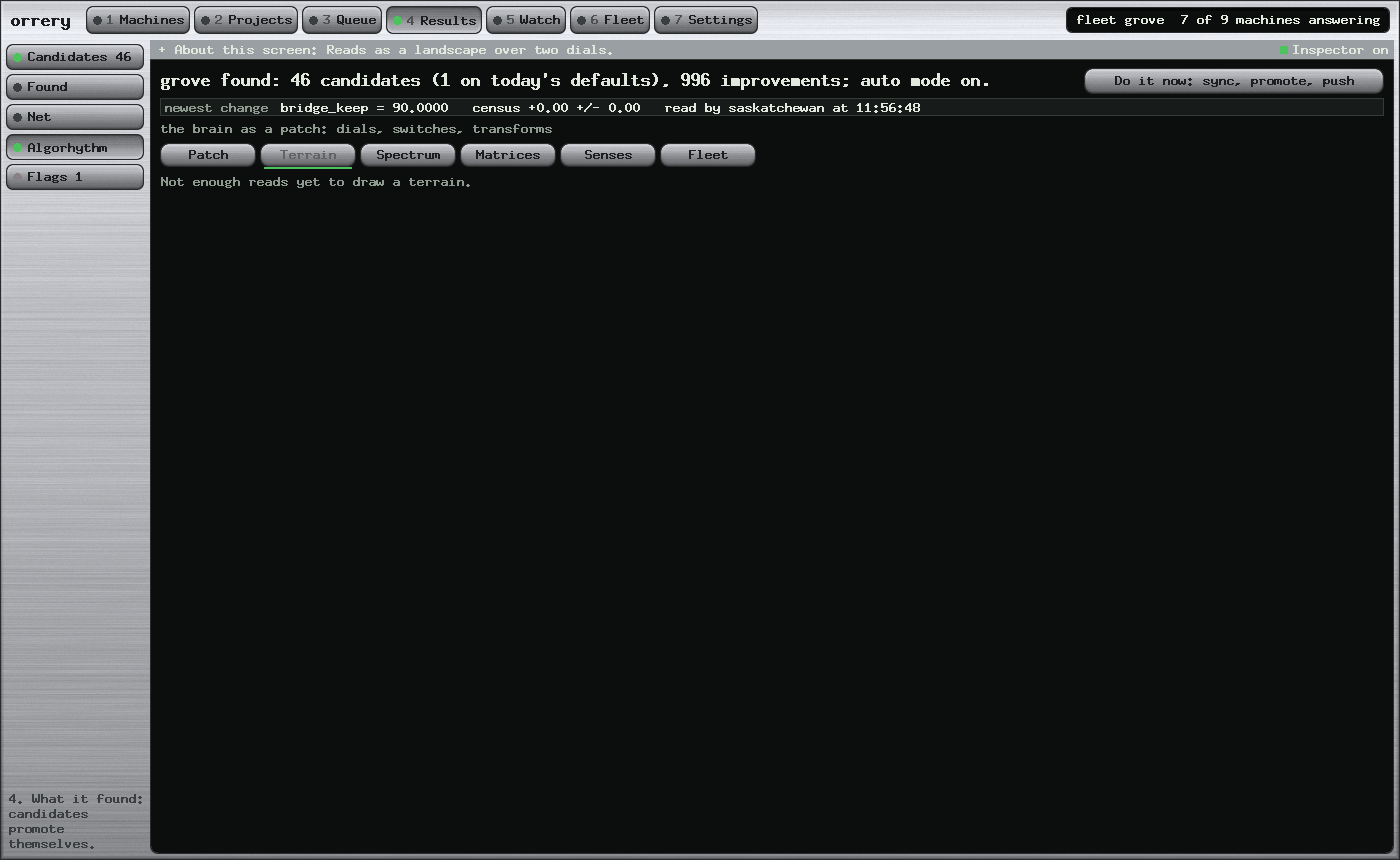
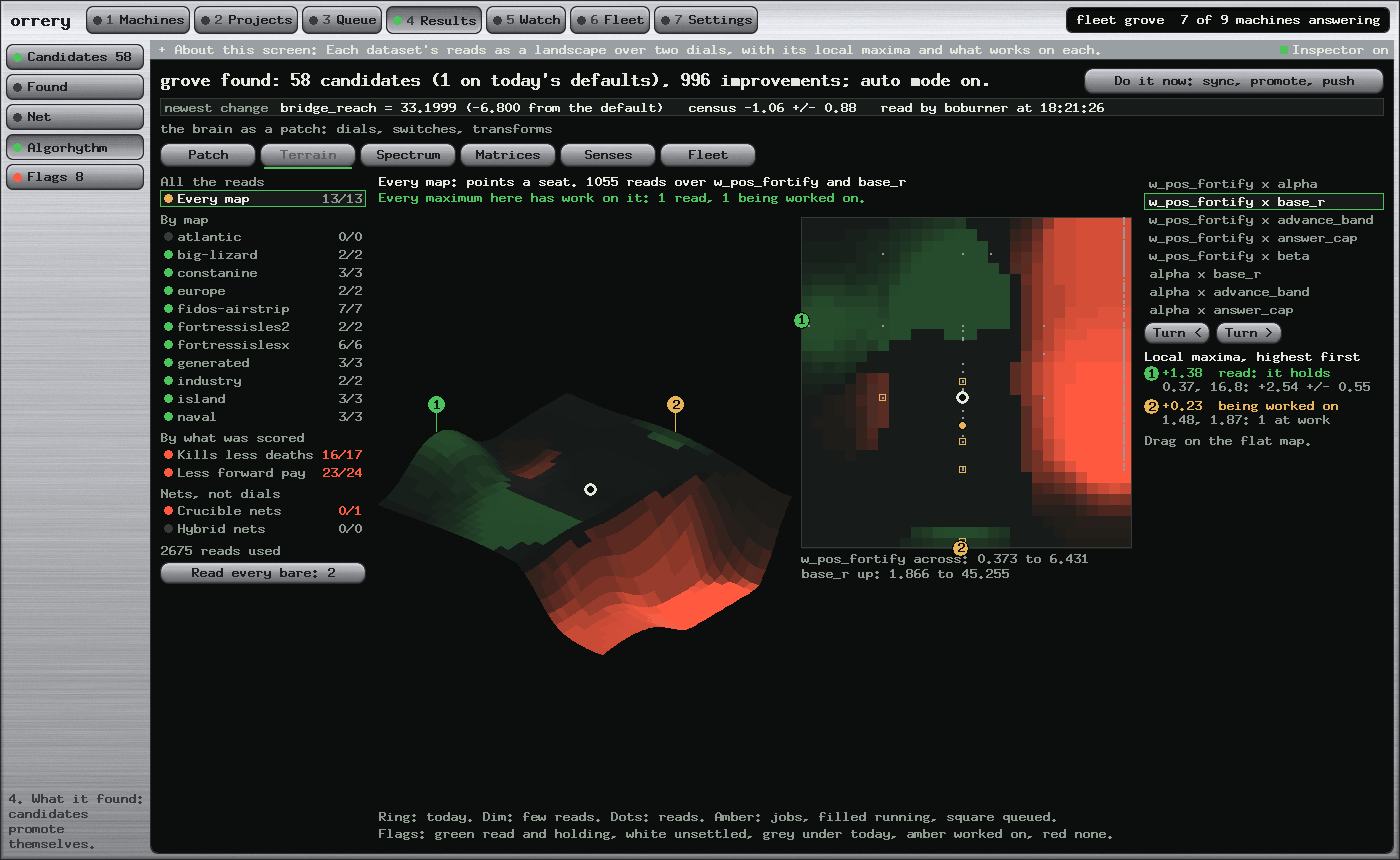
A Terrain for Each Dataset, from orrery: maxima, what works on them, and regions to send trials to

diff --git a/reports/2026-11-01-terrain.html b/reports/2026-11-01-terrain.html
@@ -1,0 +1,145 @@
+<meta charset="utf-8">
+<title>A Terrain for Each Dataset</title>
+<meta name="claude:viewport-fit-sides" content="cover">
+<link rel="preconnect" href="https://fonts.googleapis.com">
+<link rel="preconnect" href="https://fonts.gstatic.com" crossorigin>
+<link rel="stylesheet" href="https://fonts.googleapis.com/css2?family=IBM+Plex+Mono:wght@400;500;600&family=IBM+Plex+Sans+Condensed:wght@500;600;700&family=Source+Serif+4:opsz,wght@8..60,400;8..60,600&display=swap">
+<style>
+/* Layout: a lab report on orrery's paper -- a sticky bar of section
+   numerals, a masthead, then numbered sections at a reading measure, with
+   code and diagrams set dark like a terminal. Palette: orrery's draw.rs
+   LIGHT and DARK, as the user guide. */
+:root {
+  --base: #fce2ab; --panel: #f7d79a; --tile: #fff2d4; --ink: #121212;
+  --dim: #6b5836; --line: #c4a870; --accent: #87704f; --up: #4a7c4e;
+  --term-bg: #1c1a16; --term-ink: #f0e3c4; --term-dim: #8a7d63;
+  --rule: color-mix(in srgb, var(--line) 70%, transparent);
+  --serif: "Source Serif 4", Georgia, "Times New Roman", serif;
+  --cond: "IBM Plex Sans Condensed", "Helvetica Neue", Arial, sans-serif;
+  --mono: "IBM Plex Mono", ui-monospace, Menlo, Consolas, monospace;
+  --measure: 68ch;
+  --step--1: clamp(.78rem, .76rem + .1vw, .84rem);
+  --step-0: clamp(1rem, .97rem + .16vw, 1.08rem);
+  --step-1: clamp(1.18rem, 1.12rem + .3vw, 1.36rem);
+  --step-2: clamp(1.45rem, 1.32rem + .6vw, 1.9rem);
+  --step-3: clamp(1.9rem, 1.6rem + 1.3vw, 2.8rem);
+}
+@media (prefers-color-scheme: dark) {
+  :root:not([data-theme="light"]) {
+    --base: #181818; --panel: #121212; --tile: #1f1f1f; --ink: #d0daed;
+    --dim: #a08a66; --line: #3a3a3a; --accent: #fccf8a; --up: #8fbf7a;
+    --term-bg: #0e0e0e; --term-ink: #d0daed; --term-dim: #7c705c;
+    --rule: color-mix(in srgb, var(--line) 100%, transparent);
+    color-scheme: dark;
+  }
+}
+:root[data-theme="dark"] {
+  --base: #181818; --panel: #121212; --tile: #1f1f1f; --ink: #d0daed;
+  --dim: #a08a66; --line: #3a3a3a; --accent: #fccf8a; --up: #8fbf7a;
+  --term-bg: #0e0e0e; --term-ink: #d0daed; --term-dim: #7c705c;
+  --rule: color-mix(in srgb, var(--line) 100%, transparent);
+  color-scheme: dark;
+}
+* { box-sizing: border-box; }
+body {
+  background: var(--base); color: var(--ink);
+  font-family: var(--serif); font-size: var(--step-0); line-height: 1.62;
+  -webkit-font-smoothing: antialiased;
+  padding-left: max(16px, env(safe-area-inset-left, 0px));
+  padding-right: max(16px, env(safe-area-inset-right, 0px));
+}
+body::before { content: ""; position: fixed; inset: 0 0 auto; height: env(safe-area-inset-top, 0px); z-index: 30; background: var(--base); }
+.wrap { max-width: 980px; margin: 0 auto; }
+
+.bar {
+  position: sticky; top: env(safe-area-inset-top, 0px); z-index: 20;
+  background: color-mix(in srgb, var(--base) 94%, transparent);
+  backdrop-filter: blur(8px);
+  border-bottom: 1px solid var(--rule);
+  margin-inline: calc(-1 * max(16px, env(safe-area-inset-left, 0px)));
+  padding-inline: max(16px, env(safe-area-inset-left, 0px));
+}
+.bar-in {
+  max-width: 980px; margin: 0 auto; padding-block: 9px;
+  display: flex; flex-wrap: wrap; align-items: baseline; gap: 4px 14px;
+  font-family: var(--cond); font-size: var(--step--1);
+}
+.bar-in strong { letter-spacing: .1em; text-transform: uppercase; color: var(--accent); margin-right: auto; }
+.bar-in a { color: var(--dim); text-decoration: none; border-bottom: 1px solid transparent; }
+.bar-in a:hover, .bar-in a:focus-visible { color: var(--ink); border-bottom-color: var(--accent); }
+
+header.mast { padding-block: clamp(36px, 6vw, 72px) clamp(24px, 4vw, 40px); }
+.eyebrow { font-family: var(--mono); font-size: var(--step--1); letter-spacing: .12em; text-transform: uppercase; color: var(--accent); margin: 0 0 16px; }
+h1 { font-family: var(--cond); font-weight: 700; font-size: var(--step-3); line-height: 1.05; letter-spacing: -.015em; text-wrap: balance; margin: 0 0 18px; max-width: 22ch; }
+.front p, .front li { font-size: var(--step--1); color: var(--dim); }
+.front p.note { font-family: var(--mono); letter-spacing: .04em; color: var(--accent); }
+.front ul { margin: 0; }
+
+nav.toc { border-top: 1px solid var(--rule); padding-block: 22px 30px; }
+nav.toc h2 { font-size: var(--step--1); letter-spacing: .12em; text-transform: uppercase; color: var(--accent); font-family: var(--mono); font-weight: 500; margin: 0 0 10px; }
+nav.toc ol { list-style: none; padding: 0; margin: 0; columns: 2 18rem; column-gap: 32px; }
+nav.toc li { break-inside: avoid; padding: 3px 0; font-family: var(--cond); }
+nav.toc a { color: var(--ink); text-decoration: none; }
+nav.toc a:hover, nav.toc a:focus-visible { text-decoration: underline; text-decoration-color: var(--accent); }
+
+section { padding-block: clamp(28px, 4vw, 48px); border-top: 1px solid var(--rule); scroll-margin-top: 48px; }
+h2 { font-family: var(--cond); font-weight: 700; font-size: var(--step-2); line-height: 1.12; text-wrap: balance; margin: 0 0 18px; }
+h3 { font-family: var(--cond); font-weight: 600; font-size: var(--step-1); line-height: 1.25; text-wrap: balance; margin: 30px 0 10px; scroll-margin-top: 48px; }
+p, ul, ol, blockquote { max-width: var(--measure); }
+p { margin: 0 0 1em; }
+ul, ol { margin: 0 0 1em; padding-left: 1.3em; }
+li { margin-bottom: .35em; }
+li > ul, li > ol { margin: .35em 0 .2em; }
+li::marker { color: var(--accent); }
+p.note { font-size: var(--step--1); color: var(--dim); }
+strong { font-weight: 600; }
+a { color: var(--ink); text-underline-offset: 3px; text-decoration-color: var(--accent); }
+code { font-family: var(--mono); font-size: .86em; }
+p code, li code, td code, th code { color: var(--accent); word-break: break-word; }
+blockquote { margin: 0 0 1.2em; padding: 12px 18px; border-left: 3px solid var(--accent); background: var(--tile); font-family: var(--mono); font-size: var(--step--1); line-height: 1.6; }
+blockquote p { margin: 0; }
+
+.code { position: relative; margin: 0 0 1.3em; background: var(--term-bg); border-radius: 4px; overflow-x: auto; max-width: 100%; }
+.code pre { margin: 0; padding: 16px 18px; color: var(--term-ink); font-family: var(--mono); font-size: .8rem; line-height: 1.55; tab-size: 4; }
+.code code { font-size: inherit; color: inherit; }
+.code .lang { position: absolute; top: 6px; right: 10px; font-family: var(--mono); font-size: .68rem; letter-spacing: .1em; text-transform: uppercase; color: var(--term-dim); }
+.code.diagram { background: var(--tile); border: 1px solid var(--rule); }
+.code.diagram pre { color: var(--ink); }
+
+.table { overflow-x: auto; max-width: 100%; margin: 0 0 1.4em; }
+table { border-collapse: collapse; font-size: var(--step--1); line-height: 1.5; min-width: 30rem; }
+th { font-family: var(--cond); font-weight: 600; text-align: left; padding: 8px 14px 8px 0; border-bottom: 1px solid var(--line); vertical-align: bottom; }
+td { padding: 8px 14px 8px 0; border-bottom: 1px solid var(--rule); vertical-align: top; font-variant-numeric: tabular-nums; }
+tr:last-child td { border-bottom: none; }
+td:first-child { font-weight: 600; font-family: var(--cond); }
+
+figure { margin: 0 0 1.4em; }
+figure img { display: block; max-width: 100%; height: auto; border: 1px solid var(--line); }
+figcaption { margin-top: 8px; font-size: var(--step--1); color: var(--dim); max-width: var(--measure); }
+
+footer { border-top: 1px solid var(--rule); padding-block: 24px 48px; font-size: var(--step--1); color: var(--dim); }
+:focus-visible { outline: 2px solid var(--accent); outline-offset: 2px; }
+</style>
+
+<div class="bar"><div class="bar-in"><strong><a href="index.html">orrery</a> · lab report</strong><a href="#abstract">Abstract</a><a href="#si">I</a><a href="#sii">II</a><a href="#siii">III</a><a href="#siv">IV</a><a href="#sv">V</a><a href="#svi">VI</a></div></div>
+<div class="wrap">
+  <header class="mast">
+    <p class="eyebrow">orrery · the brain · maxima and what works on them</p>
+    <h1>A Terrain for Each Dataset</h1>
+    <div class="front"><p class="note">Paul, 1 November: "i see there are areas of local maxima in the terrain map. Is there a way to can perform this visualization to each dataset we can. Selecting regions of operation with the terrain map can be visually confirmed that data is working on all maximas."</p></div>
+  </header>
+  <nav class="toc" aria-label="Contents"><h2>Contents</h2><ol><li><a href="#abstract">Abstract</a></li><li><a href="#si">I. What was wrong with the old one</a></li><li><a href="#sii">II. The three words</a></li><li><a href="#siii">III. What it shows</a></li><li><a href="#siv">IV. Selecting a region</a></li><li><a href="#sv">V. Threats and what is open</a></li><li><a href="#svi">VI. Reproducing this</a></li></ol></nav>
+  <main>
+  <section id="abstract"><h2>Abstract</h2><p>Yes, and building it found that the terrain Paul was looking at stood on 109 reads of the 2,675 it should have used. It now draws sixteen datasets: every map, each of eleven maps, kills less deaths, the score less what going forward pays, and both kinds of Crucible net. Each maximum says whether work stands on it: <strong>read</strong>, <strong>being worked on</strong>, or <strong>nothing on it</strong>. A region drawn on a flat map lights up on the surface and can be sent trials. At 18:22, of 88 maxima, 77 had been read, 8 were being worked on and 3 had nothing on them. <strong>The picture that matters most is that the score's highest hill stands in the valley of kills less deaths, and disappears when going forward is taken out.</strong> No game value changed, and no region has been asked for yet.</p><p><strong>Index Terms:</strong> response surfaces, search coverage, kernel smoothing, interactive selection.</p></section><section id="si"><h2>I. What was wrong with the old one</h2><p>The terrain read <code>fleet.tsv</code>, whose rows mostly carry no commit or an old one, and a ledger that stopped on 28 October. So 3,651 rows looked like some other game, and it drew from 76 to 109 reads. It also set its heights by the gains promotions claimed, and centred on main, where the fleet stands on the line.</p><div class="table"><table><thead><tr><th></th><th>Before</th><th>Now</th></tr></thead><tbody><tr><td>Reads</td><td>109</td><td><strong>2,675</strong>, from every census's own directory</td></tr><tr><td>Today's defaults</td><td>main, <code>w_pos_fortify</code> 6</td><td>the line, 1.5</td></tr><tr><td>A read's height</td><td>its gain less the gains promotions claimed since</td><td>its gain plus how far its day's defaults stood from today's, by a small fit of the dials that have moved</td></tr><tr><td>Counted on a pair</td><td>every read</td><td><strong>only reads that moved one of the two dials.</strong> A trial of a third dial says nothing of these two</td></tr><tr><td>A maximum</td><td>any rise, including the rim of a pit</td><td>falling away on both sides of some line, off the map counting, and not in the lower half of the height</td></tr><tr><td>A map's read</td><td>any</td><td>8 seeds on that map or more. One read of 2 or 3 seeds, +15.50 +/- 0.25 on europe, drew a mountain</td></tr></tbody></table></div><p>Left out, and said on the page: 2,413 reads of other games, 1,225 of one map, 531 of switches, 157 of whole brains, 406 unfinished or without a reading.</p></section><section id="sii"><h2>II. The three words</h2><p>A maximum's reads are those within one kernel of it, about a third to half a doubling.</p><div class="table"><table><thead><tr><th>Word</th><th>Means</th></tr></thead><tbody><tr><td><strong>read</strong></td><td>110 seeds or more stand there. Their mean says if it <strong>holds</strong> (past two errors over today), <strong>falls</strong> (past two under), or is not settled</td></tr><tr><td><strong>being worked on</strong></td><td>Fewer, and a job queued or running there</td></tr><tr><td><strong>nothing on it</strong></td><td>Neither</td></tr></tbody></table></div><p><strong>"Read" means seeds stood there, not that it won.</strong> Of the 77 read, 17 hold, 2 fall and 58 are not settled.</p><figure style="max-width:1100px"><img loading="lazy" src="terrain/every.png" alt="The terrain of every map over w_pos_fortify and base_r, with a hill at w_pos_fortify 0.37" style="width:100%;border:1px solid var(--line);border-radius:6px"><figcaption><strong>Fig. 1. Every map, points a seat.</strong> Left, the datasets, each with how many of its maxima have work on them. Middle, the surface. Right of it, the same ground from above: dots are reads, amber are jobs, the ring is today. Flag 1 is the hill at <code>w_pos_fortify</code> 0.37.</figcaption></figure>
+</section><section id="siii"><h2>III. What it shows</h2><p><strong>The fortify trade, as ground.</strong> On every map the top is <code>w_pos_fortify</code> 0.37, reading +2.54 +/- 0.55 over 1,930 seeds, the same place as the 0.4 the report held. On kills less deaths that ground is the valley, and the maximum is at 5.83, +0.17 +/- 0.04. With going forward taken out the hill is gone: 0.37 reads +0.10 +/- 0.48. Nobody chose these pictures to agree with <a href="fortify-lab-report.html">A Stale Dial</a>, and they do, because they are largely the same reads.</p><figure style="max-width:1100px"><img loading="lazy" src="terrain/kills.png" alt="The terrain of kills less deaths over the same dials, with the red valley where the score's hill is" style="width:100%;border:1px solid var(--line);border-radius:6px"><figcaption><strong>Fig. 2. The same reads and the same dials, kills less deaths.</strong> The score's hill stands in this one's valley, and this one's maximum is near the old 6. The box is a selected region, lit on the surface as well; one maximum here has nothing on it, so the panel offers to read it.</figcaption></figure>
+<figure style="max-width:1100px"><img loading="lazy" src="terrain/less.png" alt="The same terrain with what going forward pays taken out, where the hill is gone" style="width:100%;border:1px solid var(--line);border-radius:6px"><figcaption><strong>Fig. 3. The same again, less what going forward pays.</strong> From 145 reads, because only logs since the census named its rewards can say. The hill is gone. This is the conclusion of <a href="fortify-lab-report.html">A Stale Dial</a>, seen as ground.</figcaption></figure>
+<p><strong>Maps differ, and most have little to show.</strong> Atlantic draws no maximum at all: its reads sit near zero. Fidos-airstrip has seven and fortressislesx six. A map's reads have about 37 seeds at most.</p><p><strong>Crucible's islands went apart.</strong> Three islands, three separate tracks in weight space, each with its island at the end, in both the plain and the hybrid nets. So they are searching different ground, which is what islands are for. <strong>The heights say little:</strong> a plain ladder is mostly draws, and the hybrid's margins are mostly negative. There is no dial to send a trial to, so a net's maximum can only be watched.</p><figure style="max-width:1100px"><img loading="lazy" src="terrain/nets.png" alt="Crucible's champions as points in two directions of their weights: three separate tracks, with the islands at their ends" style="width:100%;border:1px solid var(--line);border-radius:6px"><figcaption><strong>Fig. 4. Crucible's nets.</strong> Each dot is a champion, placed by two main directions of its weights. Three islands, three tracks going apart, each island at the end of its own. The one red flag is a rise off the tracks with seven nets near it.</figcaption></figure>
+</section><section id="siv"><h2>IV. Selecting a region</h2><p>Drag on the flat map, or click a maximum in the list. The cells light up on the surface, and the panel says what is inside: reads, jobs, maxima.</p><ul><li><strong>Read here: 6</strong> asks for six trials inside the box.</li><li><strong>Read the bare</strong> asks for three trials tight on each maximum of this pair with nothing on it.</li><li><strong>Read every bare</strong> does that for all datasets, each place once.</li></ul><p>These write <code>QUEUE/regions.json</code> by <code>tools/regions.py</code>. The planner puts them ahead of its own search, spaced evenly on each dial's log scale. <strong>They go by the ordinary road: nothing is promoted because a person looked there.</strong> A trial sets the two dials and leaves the rest at today's. A job retired before it ran is asked again. The terrains are redrawn at the next poll, so the amber marks appear within a couple of minutes, once the planner has asked.</p><p>A test presses, drags and lets go through the screen's own code, and checks the box and the values asked for. I have not pressed these in the running app, and <strong>no region has been asked for on the live fleet,</strong> because that is a person's choice.</p></section><section id="sv"><h2>V. Threats and what is open</h2><p><strong>One hill is counted several times.</strong> Each hill is seen through every pair containing its dial: 0.37 appears in five. The 88 are 88 flags, not 88 places. <strong>Two dials at a time is a slice of something with 118.</strong> Other dials average out, and a trial moving four dials sits on all of its pairs. <strong>The move to today's defaults assumes the score adds,</strong> and switches a generation flipped are not in it: <code>bridges</code> and <code>escort</code> are off, and those reads are left out. <strong>The reads are not random.</strong> The search chose them, and read winners more, so a hill is partly where it looked hardest. <strong>Which pairs are drawn changes as the fit changes its mind,</strong> and a selection is dropped when its pair goes. <strong>"Holds" uses each read's own error,</strong> and the two proofs that disagreed in A Stale Dial say that error may be small. <strong>A net's map is two directions from 400 sampled weights of thousands,</strong> and I did not measure how much of the variation they hold.</p><p><strong>Unrelated, found while testing:</strong> <code>sftp::tests::an_empty_file_is_a_transfer_and_not_a_hang</code> failed in about one run in three here, in code this work did not touch. It is not fixed.</p><p><strong>Not drawn:</strong> bot styles (8 points, not a surface), the bc nets (one each), the transform's reads (too few so far).</p></section><section id="svi"><h2>VI. Reproducing this</h2><div class="code"><span class="lang">sh</span><pre><code>Q=~/code/treadcore/build/queue/grove
+python3 -I tools/terrain.py $Q             # every dataset, about 10 s after the first
+python3 -I tools/regions.py $Q status      # what has been asked
+python3 -I tools/plans/board-check.py      # regions, among the rest</code></pre></div><p>Results, Algorhythm, Terrain. Pictures: <code>ORRERY_FRAME_TAB=1 ORRERY_FRAME_DATASET=n ORRERY_FRAME_PAIR=n ORRERY_FRAME_REGION=x0,x1,y0,y1</code>.</p></section>
+  </main>
+  <footer>
+    <p>Paul Richeson, 28 October 2026. MIT licensed, as orrery. The Markdown original and the example's source are in orrery: <code>docs/appkit-gui-lab-report.md</code> and <code>docs/appkit-example/</code>.</p>
+  </footer>
+</div>

diff --git a/reports/2026-11-01-double-report.html b/reports/2026-11-01-double-report.html
@@ -290,7 +290,7 @@ ol.marks{font-family:var(--cond);font-size:var(--step--1);columns:2;column-gap:2
 <p>It should draw reads as a landscape over two dials. <strong>Today it is empty, and that is a fault of the data and not of the screen:</strong> game 4's reads sit only in each job's results and not in any ledger it reads. See the amendment.</p>
 <figure class="shot"><div class="frame"><img loading="lazy" src="double/algo-terrain.png" alt="algo-terrain"><svg viewBox="0 0 1400 860" aria-hidden="true"><circle cx="320" cy="182" r="15"/><text x="320" y="182">1</text></svg></div></figure>
 <ol class="marks"><li>What it says instead of inventing a surface.</li></ol>
-<div class="answers"><div><b>What it does</b>Reads as a landscape over two dials.</div><div><b>Where it ties in</b>Search: what the fit believes.</div><div><b>Why it is drawn this way</b>A surface, because peaks and ridges read at a glance. Colour fades where reads are thin.</div><div><b>What to look for</b>Places to look, never results. A peak on thin support is one lucky read.</div><div><b>What is simulated</b>Past censuses, moved to one baseline by assuming gains add.</div><div><b>Why it helps the brain</b>It suggests where a wide trial should go.</div></div>
+<div class="answers"><div><b>What it does</b>Each dataset&#x27;s reads as a landscape over two dials, with its local maxima and what works on each.</div><div><b>Where it ties in</b>Search: where the fleet has looked, and what it has not. Select a region to send it trials.</div><div><b>Why it is drawn this way</b>A surface, because peaks read at a glance, and the same ground flat, because a region and a job can be placed there. Red flags have nothing on them.</div><div><b>What to look for</b>Places to look, never results. A peak on thin support is one lucky read, and &#x27;read&#x27; means seeds stood there, not that it won.</div><div><b>What is simulated</b>Past censuses, moved to today&#x27;s defaults by a small fit of the dials since moved. Only reads that moved one of the two dials count.</div><div><b>Why it helps the brain</b>It shows whether every maximum in every dataset is being worked on, and asks for work on those that are not.</div></div>
 <h3>Results, Algorhythm, Spectrum</h3>
 <p>How crucible's nets change over time, without reading a single weight. New bright rows are new skills; a flat picture means an island has stopped learning.</p>
 <figure class="shot"><div class="frame"><img loading="lazy" src="double/algo-spectrum.png" alt="algo-spectrum"><svg viewBox="0 0 1400 860" aria-hidden="true"><circle cx="420" cy="260" r="15"/><text x="420" y="260">1</text><circle cx="1100" cy="250" r="15"/><text x="1100" y="250">2</text><circle cx="1100" cy="350" r="15"/><text x="1100" y="350">3</text><circle cx="790" cy="600" r="15"/><text x="790" y="600">4</text></svg></div></figure>
